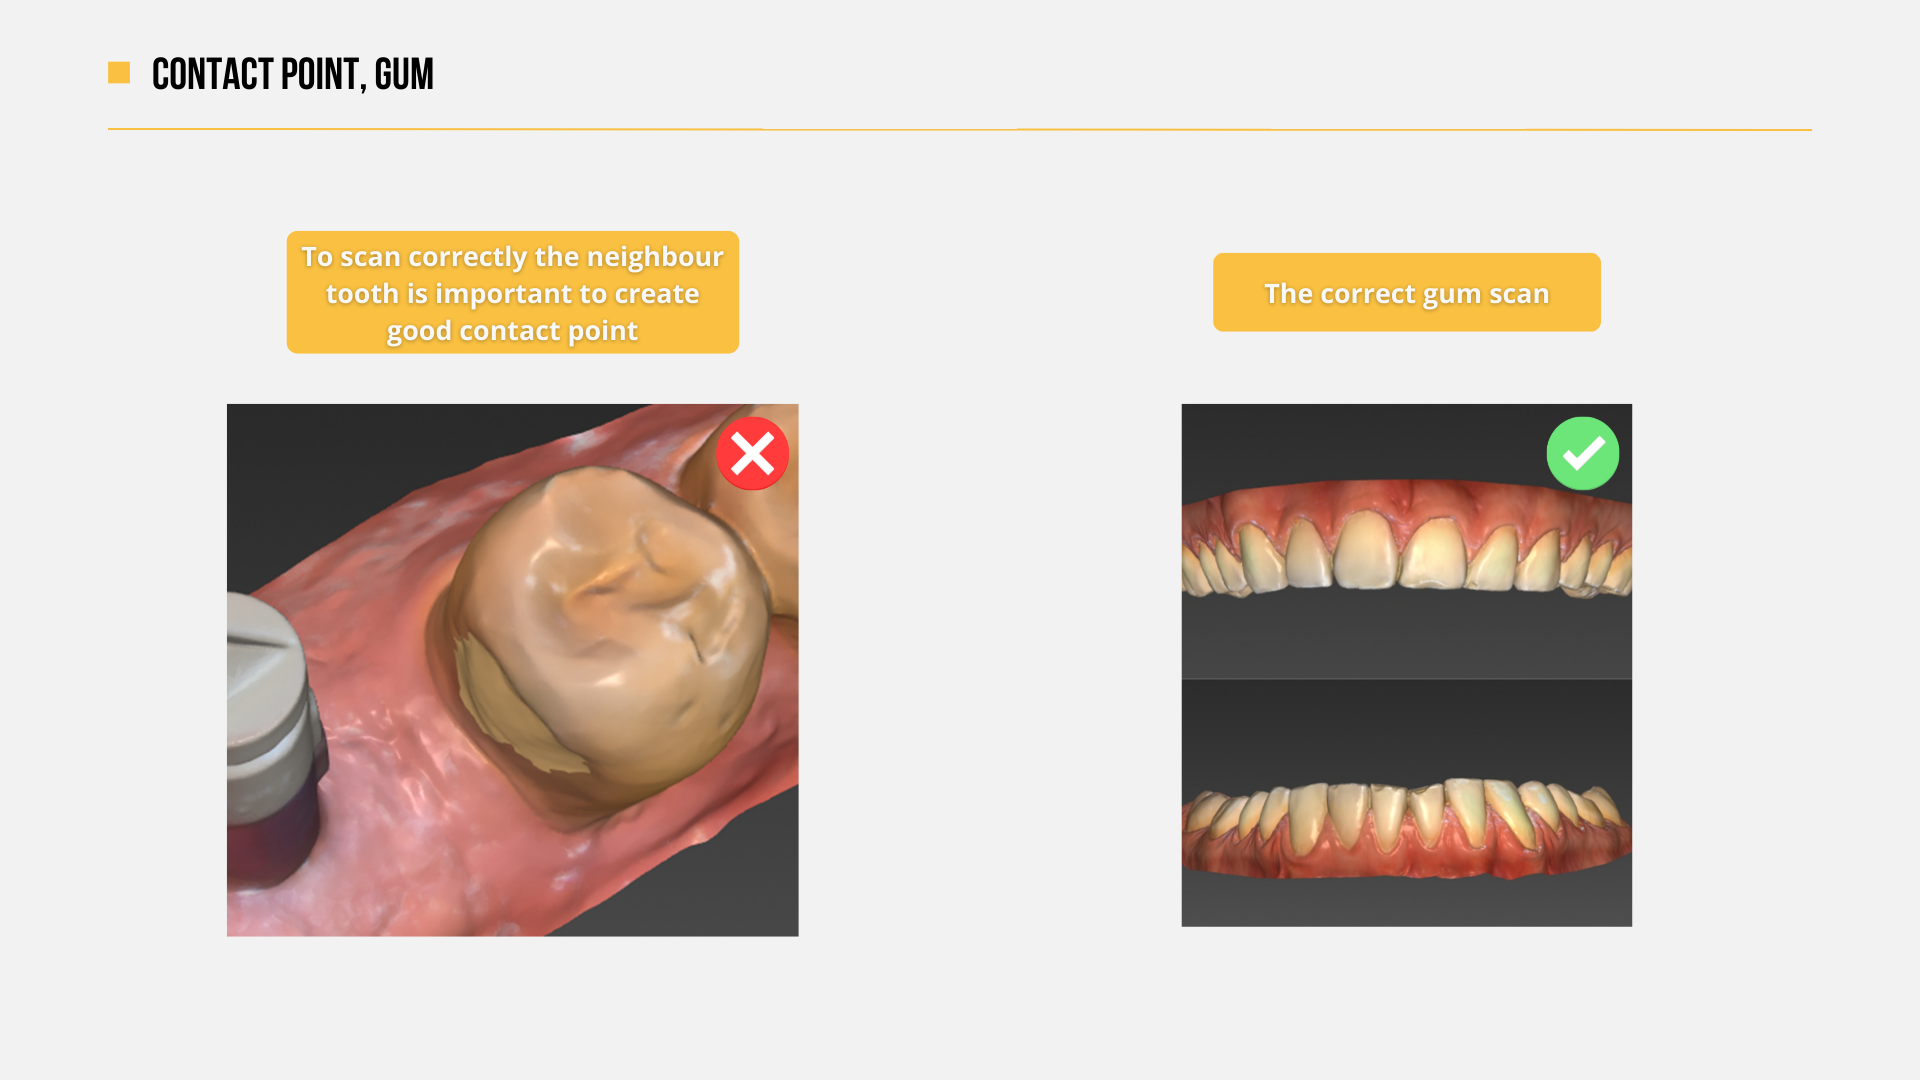
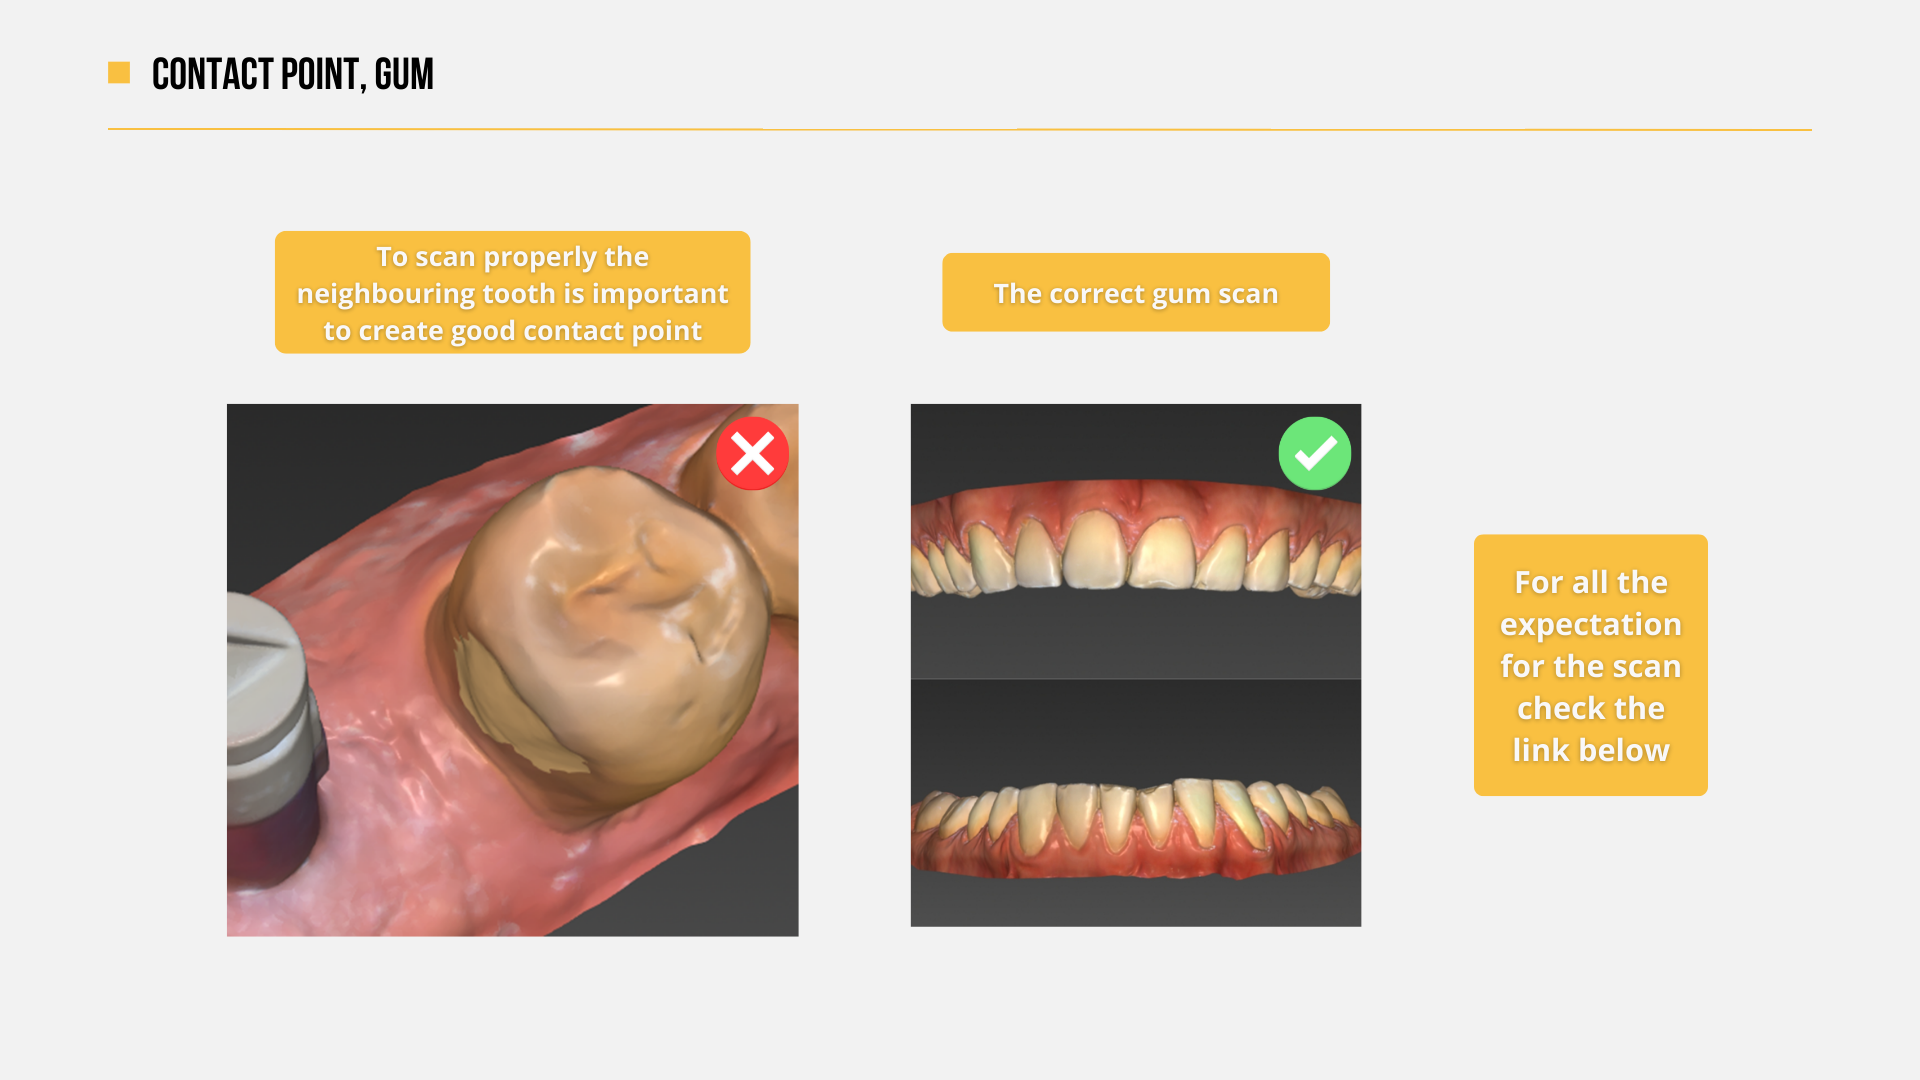
add scanning menu

Changed region(s): [[0.4688, 0.3667, 0.9062, 0.8556], [0.125, 0.2139, 0.4062, 0.3361], [0.4688, 0.2139, 0.8438, 0.3056]]

diff --git a/scanning.html b/scanning.html
@@ -1,0 +1,54 @@
+<!DOCTYPE html>
+<html lang="en">
+<head>
+    <meta charset="UTF-8">
+    <meta http-equiv="X-UA-Compatible" content="IE=edge">
+    <meta name="viewport" content="width=device-width, initial-scale=1.0">
+    <link rel="icon" href="/images/logo.png">
+    <title>Scanning</title>
+    <link rel="stylesheet" href="weborder.css">
+    <link rel="preconnect" href="https://fonts.googleapis.com">
+    <link rel="preconnect" href="https://fonts.gstatic.com" crossorigin>
+    <link href="https://fonts.googleapis.com/css2?family=Roboto+Flex:opsz,wght@8..144,300;8..144,400;8..144,500&display=swap" rel="stylesheet">
+</head>
+
+<body>
+
+<!-- Logo -->
+
+<div class="top">
+    <a class="dentael_top" href="index.html">
+        <img src="/images/dentael_logo.png" alt="">
+    </a>
+</div>
+
+<!-- All pictures -->
+
+<img class="firstPic" src="images/scan menu/1.png" alt="">
+
+<img src="images/scan menu/2.png" alt="">
+<img src="images/scan menu/3.png" alt="">
+<img src="images/scan menu/4.png" alt="">
+<img src="images/scan menu/5.png" alt="">
+<img src="images/scan menu/6.png" alt="">
+<img src="images/scan menu/7.png" alt="">
+<img src="images/scan menu/8.png" alt="">
+<img id="expectation" src="images/scan menu/9.png" alt="">
+<img src="images/scan menu/10.png" alt="">
+<img src="images/scan menu/11.png" alt="">
+<img src="images/scan menu/12.png" alt="">
+<img src="images/scan menu/13.png" alt="">
+<img src="images/scan menu/14.png" alt="">
+<img src="images/scan menu/15.png" alt="">
+<img src="images/scan menu/17.png" alt="">
+<img src="images/scan menu/18.png" alt="">
+<img src="images/scan menu/19.png" alt="">
+<img src="images/scan menu/20.png" alt="">
+
+<img class="lastPic" src="images/scan menu/21.png" alt="">
+
+<a href="photo.html" target="_blank"><img class="link" src="images/link.png"></a>
+
+</body>
+
+</html>

diff --git a/implant.html b/implant.html
@@ -35,6 +35,9 @@
 <img src="images/imp scan menu/8.png" alt="">
 <img src="images/imp scan menu/9.png" alt="">
 <img src="images/imp scan menu/10.png" alt="">
+
+<a href="https://dentael.github.io/#expectation" target="_blank"><img class="link" src="images/link.png"></a>
+
 <img src="images/imp scan menu/11.png" alt="">
 <img src="images/imp scan menu/12.png" alt="">
 <img src="images/imp scan menu/13.png" alt="">

diff --git a/index.html b/index.html
@@ -33,7 +33,7 @@
             <a href="deadlines.html" target="_blank"><p>Deadlines</p></a>
         </div>
         <div class="box scan">
-            <a href="http://" target="_blank"><p>Scanning</p></a>
+            <a href="scanning.html" target="_blank"><p>Scanning</p></a>
         </div>
         <div class="box twoLine">
             <a href="implant.html" target="_blank"><p>Implant<br>scanning</p></a>
